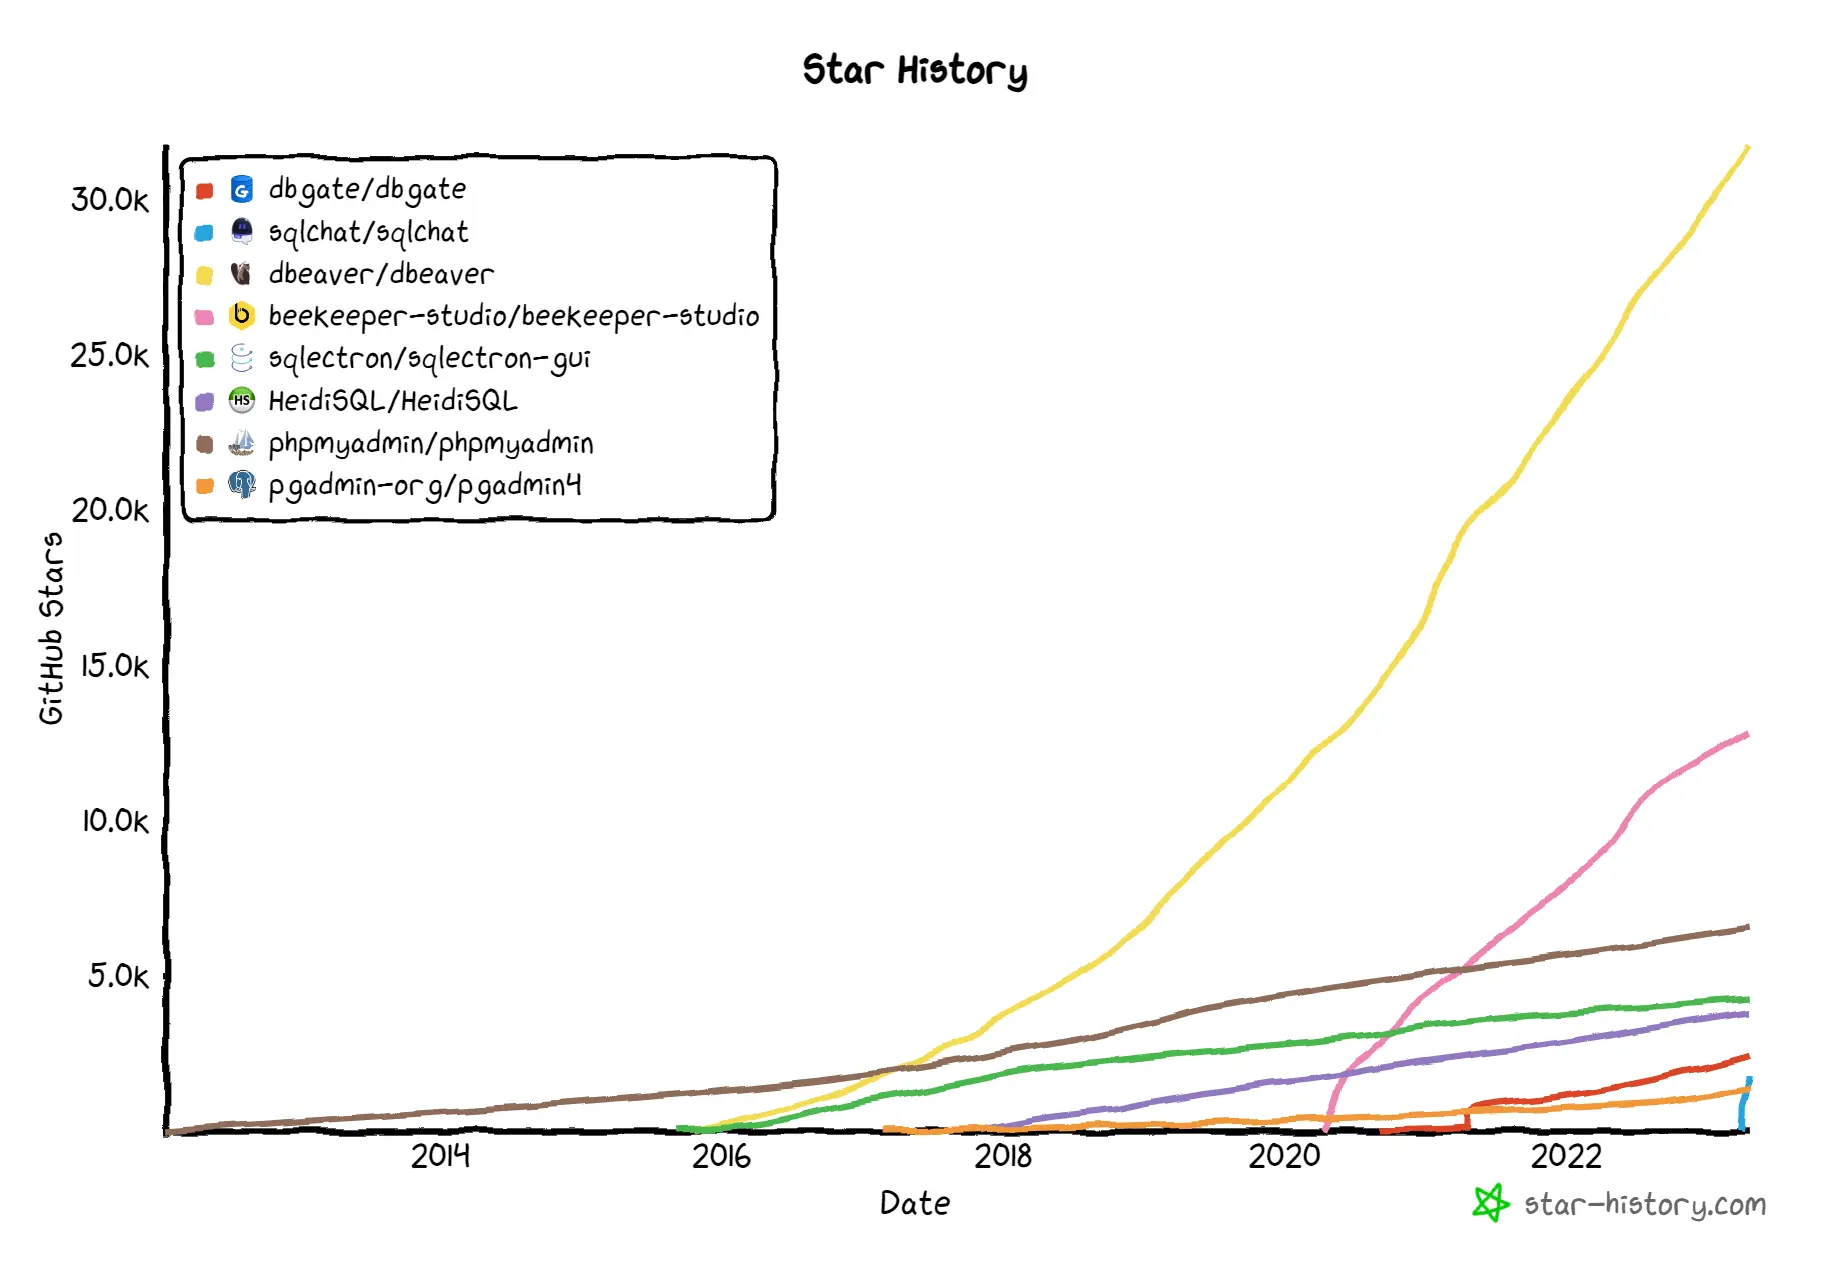
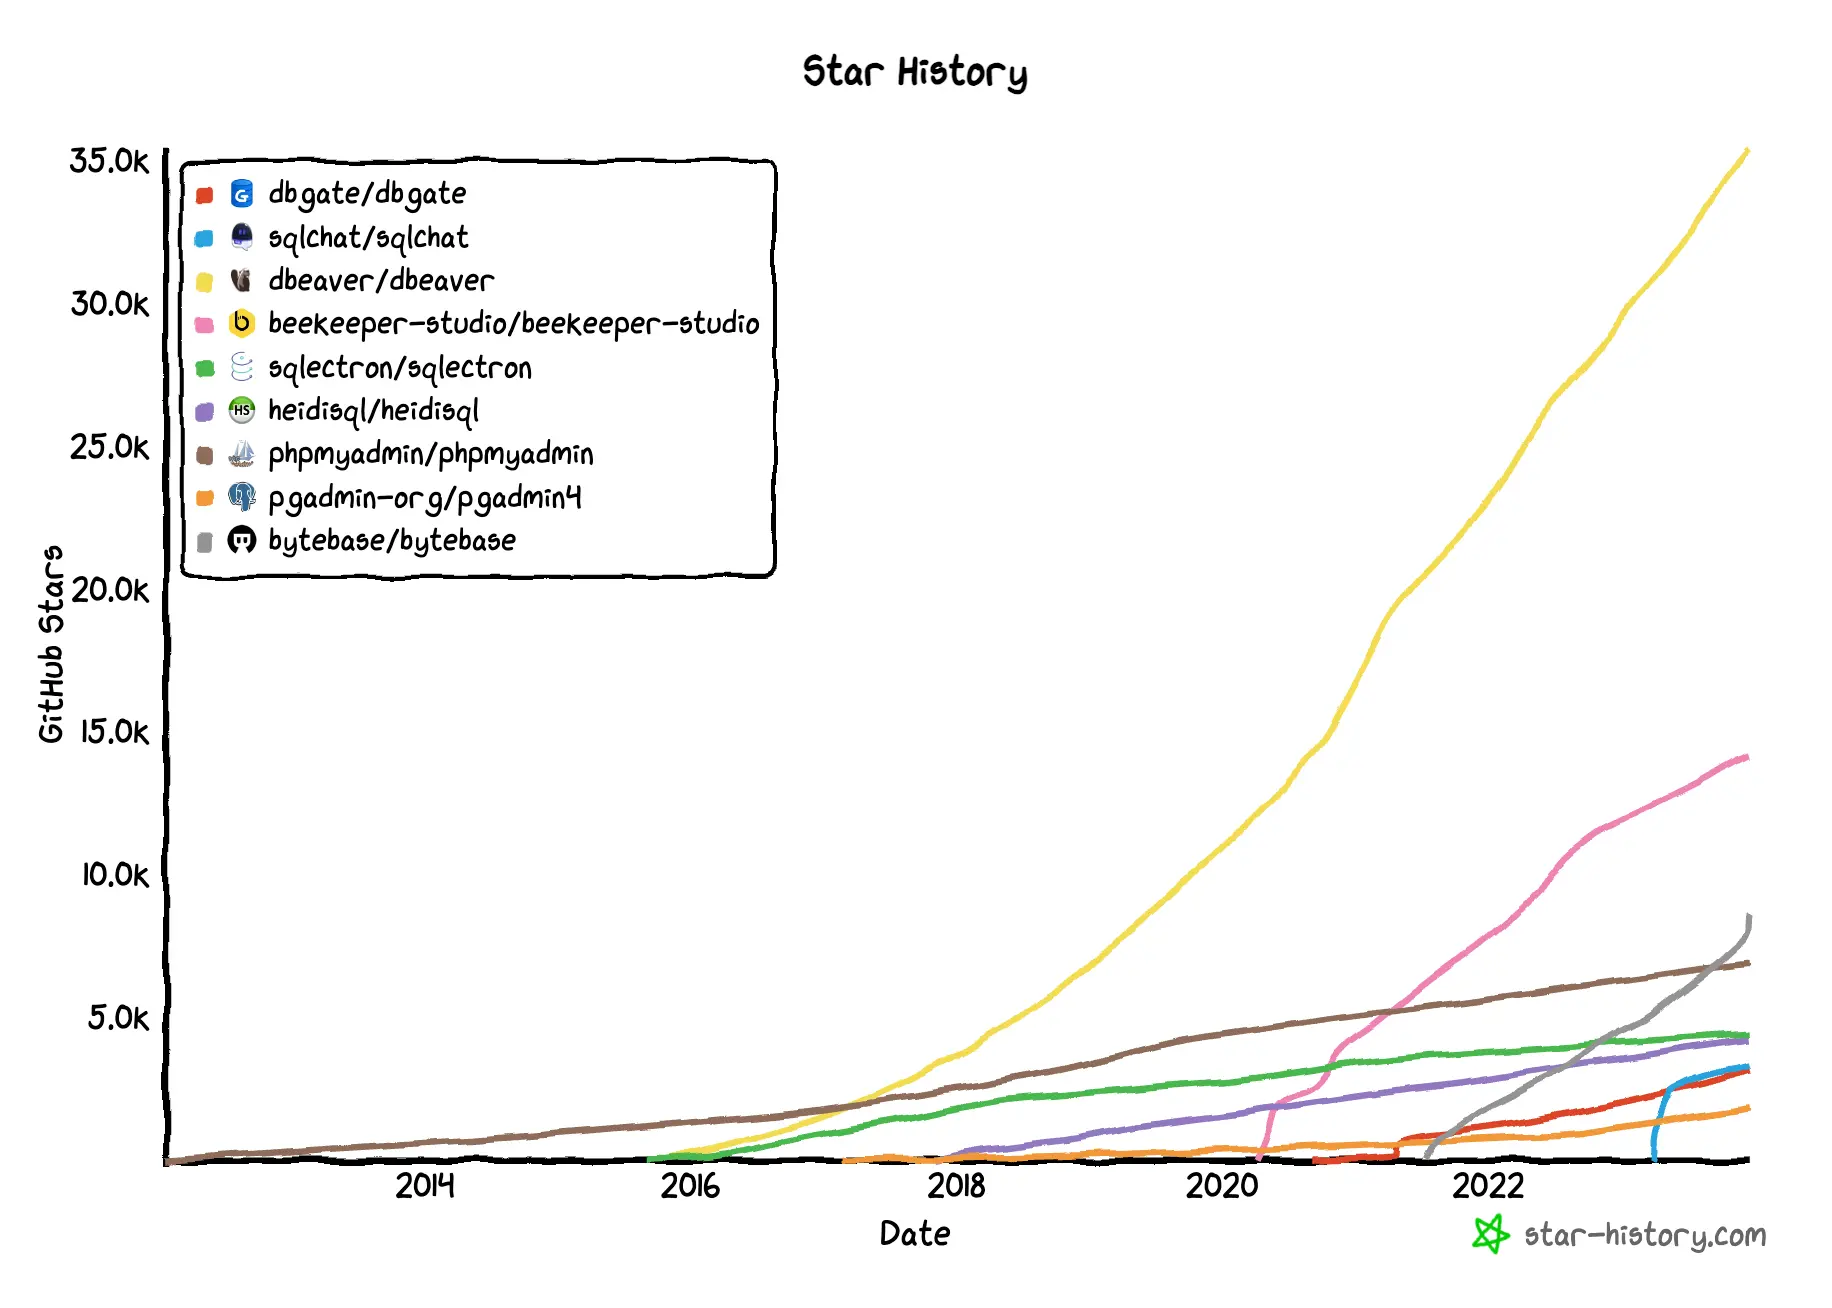
chore: update top sql clients post

diff --git a/content/blog/top-open-source-sql-clients.md b/content/blog/top-open-source-sql-clients.md
@@ -10,7 +10,7 @@ description: SQL clients makes it safer and easier to manage databases. In this 
 
 In the past, the only way to access or modify a database was through the command line, which was not only not intuitive, but also prone to errors that could lead to major problems. So people began to develop tools with a graphical user interface (GUI), and that became what we now know as SQL clients, which are basically front-end applications for database services. In this post, we are taking a look at some open source SQL clients options for you to try.
 
-![starhistory](/content/blog/top-open-source-sql-clients/starhistory.webp)
+[![starhistory](/content/blog/top-open-source-sql-clients/starhistory.webp)](https://star-history.com/#dbgate/dbgate&sqlchat/sqlchat&dbeaver/dbeaver&beekeeper-studio/beekeeper-studio&sqlectron/sqlectron&heidisql/heidisql&phpmyadmin/phpmyadmin&pgadmin-org/pgadmin4&bytebase/bytebase&Date)
 
 ## SQL Chat
 
@@ -74,6 +74,19 @@ The codebase for HeidiSQL [originally came from](https://www.heidisql.com/forum.
 
 After taking a look at [the history of pgAdmin](https://www.enterprisedb.com/blog/story-pgadmin), apparently the author came up with pgAdmin from scratch because the only option for managing PostgreSQL at that time (late 90s) was not working very well on Windows, which has since gone through many iterations.
 
+## Bytebase
+
+Aforementioned tools are all client-side SQL editors for individual use. What if you want a SQL clients for team use? The client-side SQL editors would not be sufficient because for team use, it would require:
+
+- **Centralized access control**. Ideally you don't want to give away production database credientials to developers.
+- **Data masking**. You may want to prevent users seeing sensitive data.
+- **Request and review workflow**. You want users go through a ticketing process to request the access rights.
+- **Audit logging**. You want to capture all operations performed on the database.
+
+All above requirements call for a server-side solution. And that's what [Bytebase SQL Editor](/sql-editor) provides.
+
+![bytebase-sql-editor](/content/blog/top-open-source-sql-clients/sql-editor.webp)
+
 ## To summarize
 
 We briefly looked at the history of a handful of SQL Clients to understand some of the more famous open source solutions, rather than comparing the product or their functions (I mean, after 20 years of refinement those vetran SQL clients can't be too bad, right?) . It seems that most of the authors began building because they were unable to find a product that fit their needs perfectly, but the story afterwards is very different: some tools were then commercialized, some continued on with a strong community, and some gradually faded out due to a change of focus.
@@ -81,20 +94,17 @@ We briefly looked at the history of a handful of SQL Clients to understand some 
 And we wonder, with the popularity of ChatGPT, will there be more open source SQL clients like SQL Chat based on Chat interaction?
 
 Beyond using the general SQL Client to interact with the databases, developers and DBAs also adopt
-a dedicated tool to compare and synchronize database schemas, go check out [those tools](/blog/top-mysql-schema-compare-tools/).
+more specialized tools for particular tasks:
 
-And if you want an all-in-one tool to provide not only general SQL Client features, but also management
-capabilities such as change approval workflow, data access control, you can check out our open source
-project [Bytebase](/).
-
-![change-query-secure-govern-database-all-in-one](/images/db-scheme-lg.png)
+- To perform schema migrations, go check out [Top Database Schema Migration Tools](/blog/top-database-schema-change-tool-evolution/).
+- To compare and synchronize database schemas, go check out [Top MySQL Schema Compare Tool](/blog/top-mysql-schema-compare-tools/).
 
 ---
 
 ## More Specific SQL Client Tools
 
 - [Top Database Schema Migration Tools](/blog/top-database-schema-change-tool-evolution/)
+- [Top MySQL Schema Compare Tool to Diff and Sync Database](/blog/top-mysql-schema-compare-tools)
 - [Top Postgres GUI client](/blog/top-postgres-gui-client)
 - [Top MySQL GUI client](/blog/top-mysql-gui-client)
-- [Top MySQL Schema Compare Tool to Diff and Sync Database](/blog/top-mysql-schema-compare-tools)
 - [Top DBeaver Alternatives](/blog/top-dbeaver-alternative)
